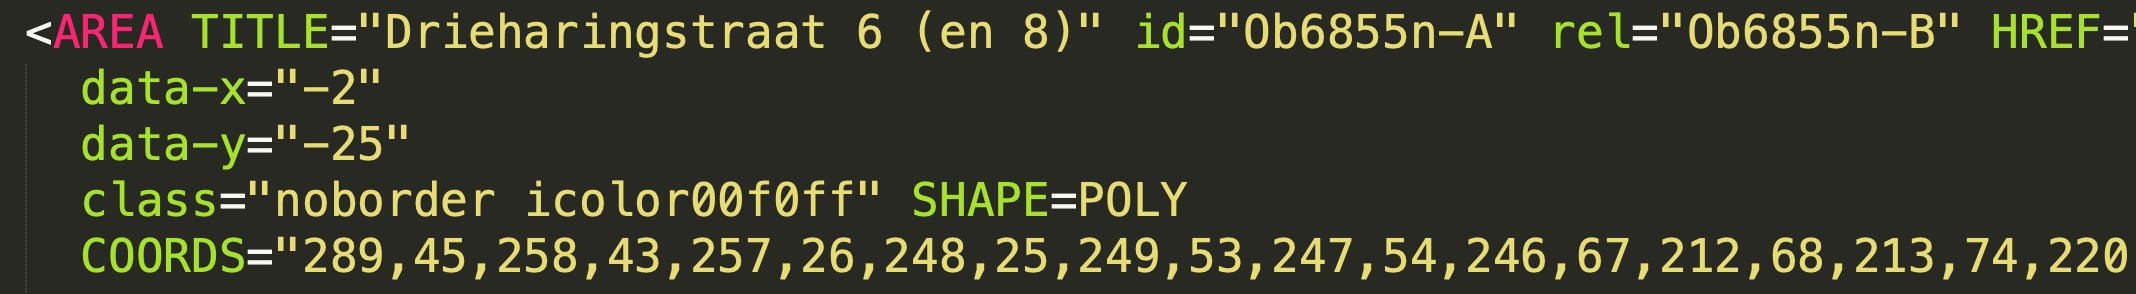
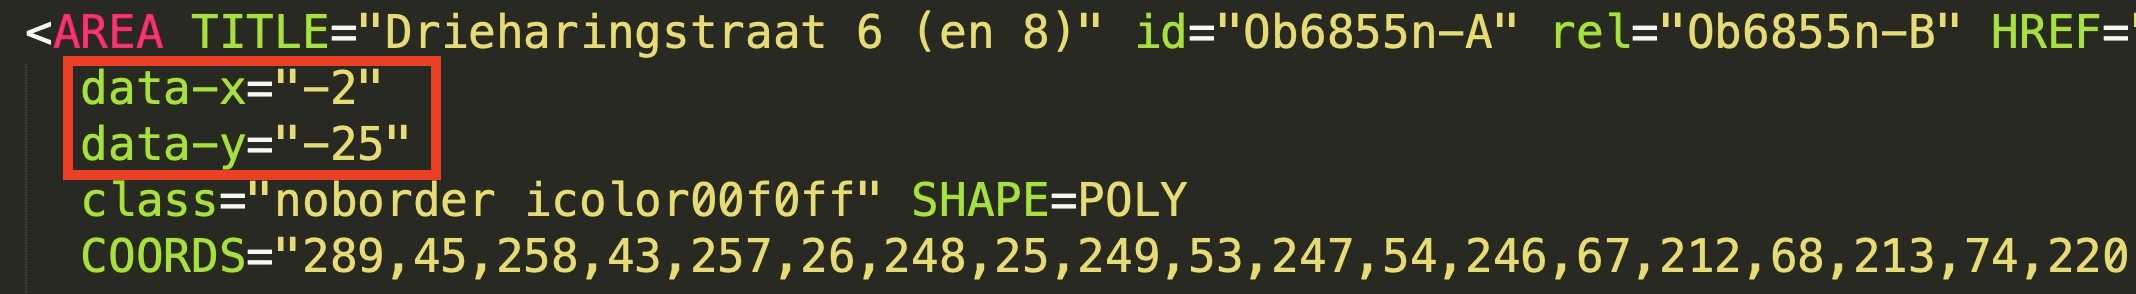
readme

diff --git a/examples/ZplaatHUA.catnr.56238-det1/ZplaatHUA.catnr.56238-det1-links.htm b/examples/ZplaatHUA.catnr.56238-det1/ZplaatHUA.catnr.56238-det1-links.htm
@@ -1,7 +1,7 @@
 <html><head>
 <link rel="stylesheet" href="/uds4/WP730.css">
 <script type="text/javascript" src="/scripts/mapper.js"></script>
-<script type="text/javascript" src="/scripts/knipperendebolletjes.js"></script>
+<script type="text/javascript" src="../scripts/knipperendebolletjes.js"></script>
 
 </head>
 <!-- #$AUTHOR:jp0212 -->

diff --git a/README.md b/README.md
@@ -1,7 +1,7 @@
 # Knipperendebolletjes
-door Rick, Ivar en Simon - Utrecht Time Machine
-30 maart, 17-18 april en 13 oktober 2020
-GNU General Public License v3.0
+- Door Rick, Ivar en Simon - Utrecht Time Machine
+- 30 maart, 17+18 april en 13 oktober 2020
+- Open-source licentie volgens GNU General Public License v3.0
 
 Een eenvoudige client-sided oplossing voor de 'knipperendebolletjes' op de zoekplaten op [documentatie.org](http://www.documentatie.org).
 Dit werkt als volgt: Het Javascript bestand kijkt of er in de querystring van het `.htm` bestand dat geopend wordt een `?objectnr=Ob123n` wordt vermeld. In dat geval loopt het script langs alle `<AREA>` elementen op de pagina. Wanneer er in de `HREF` van de `AREA` verwezen wordt naar dit objectnummer dan wordt het middelpunt van de polygoon uitgerekend en wordt er op die plek een knipperend bolletje getoond.
@@ -25,15 +25,17 @@ Open het `....-links.htm` (dit bestand bevat de `<AREA>` elementen) om het te be
 
 ## Stap 4
 Plaats de volgende regel code in de `<HEAD>` van het `.htm` bestand. 
-
-```<script type="text/javascript" src="/scripts/knipperendebolletjes.js"></script>```
+```
+<script type="text/javascript" src="/scripts/knipperendebolletjes.js"></script>
+```
 
 ![](doc/head.jpg)
 
 ## Stap 5
-
-
-
+Vervang de volledige inhoud van het bestand `...-Knipper.asp` door het volgende:
+```
+<!--#include virtual="/scripts/Knipper.asp"-->
+```
 
 ## Optioneel
 
@@ -43,4 +45,4 @@ In sommige gevallen wil je geen knipperend bolletje laten zien. Bijvoorbeeld als
 ![](doc/nodot.jpg)
 
 ### Verplaatsen bolletje t.o.v. van het midden 
-
+![](doc/xy.jpg)
